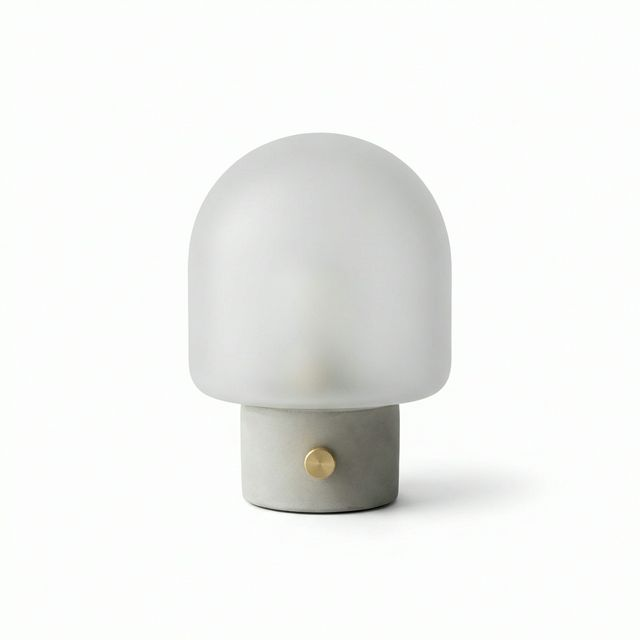
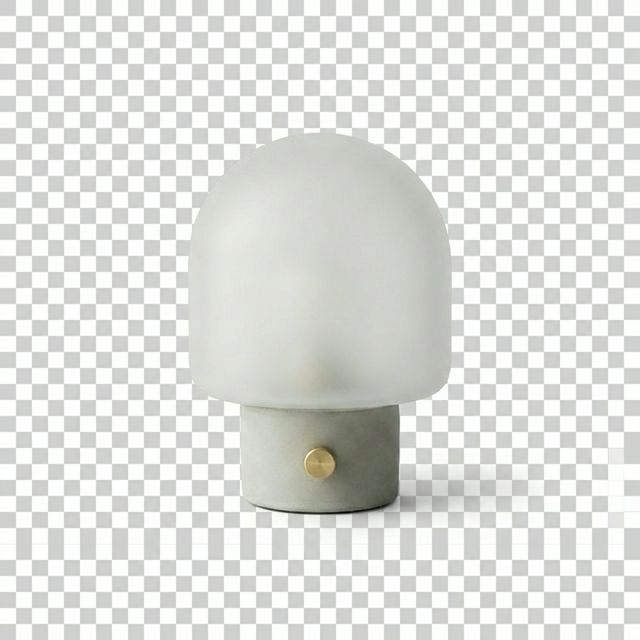
Implement transparent PNG swirl effect: cutout images + new SVG layering

diff --git a/swiss-minimalist.js b/swiss-minimalist.js
@@ -100,4 +100,104 @@ document.addEventListener('DOMContentLoaded', () => {
     document.body.style.opacity = '1';
   });
 
+  // ------ Swirly Pen Stroke Hover Effect ------
+  (function initSwirlHover() {
+    const NS = 'http://www.w3.org/2000/svg';
+    const items = document.querySelectorAll('.product-item');
+
+    function r(a, b) { return a + Math.random() * (b - a); }
+
+    // Generate a random swirly, organic pen-stroke path
+    function makeSwirlPath(w, h) {
+      const cx = w / 2, cy = h / 2;
+
+      // Generate 6-9 points spread around the card
+      // (the transparent image will naturally mask the center)
+      const pts = [];
+      const n = 6 + Math.floor(Math.random() * 4);
+      for (let i = 0; i < n; i++) {
+        // Distribute around card — bias toward edges but allow mid-range
+        const angle = (i / n) * Math.PI * 2 + r(-0.4, 0.4);
+        const radius = r(0.35, 0.55) * Math.min(w, h);
+        const x = cx + Math.cos(angle) * radius * (w / Math.min(w, h));
+        const y = cy + Math.sin(angle) * radius * (h / Math.min(w, h));
+        pts.push({
+          x: Math.max(-w * 0.05, Math.min(w * 1.05, x)),
+          y: Math.max(-h * 0.05, Math.min(h * 1.05, y)),
+          a: angle
+        });
+      }
+
+      // Sort by angle for cohesive flow
+      pts.sort((a, b) => a.a - b.a);
+
+      // Build cubic bezier path
+      let d = `M${pts[0].x.toFixed(1)},${pts[0].y.toFixed(1)}`;
+      for (let i = 1; i < pts.length; i++) {
+        const p = pts[i - 1], q = pts[i];
+        const dx = q.x - p.x, dy = q.y - p.y;
+        const sw = r(-0.5, 0.5);
+        const c1x = p.x + dx / 3 + dy * sw;
+        const c1y = p.y + dy / 3 - dx * sw;
+        const c2x = p.x + 2 * dx / 3 - dy * sw * 0.6;
+        const c2y = p.y + 2 * dy / 3 + dx * sw * 0.6;
+        d += ` C${c1x.toFixed(1)},${c1y.toFixed(1)} ${c2x.toFixed(1)},${c2y.toFixed(1)} ${q.x.toFixed(1)},${q.y.toFixed(1)}`;
+      }
+      return d;
+    }
+
+    items.forEach(item => {
+      let svg = null;
+      const container = item.querySelector('.image-container');
+      if (!container) return;
+
+      item.addEventListener('mouseenter', () => {
+        if (svg) { svg.remove(); svg = null; }
+
+        const w = container.offsetWidth;
+        const h = container.offsetHeight;
+
+        // Create SVG — placed inside image-container, behind the <img>
+        svg = document.createElementNS(NS, 'svg');
+        svg.setAttribute('viewBox', `0 0 ${w} ${h}`);
+        svg.style.cssText = 'position:absolute;top:0;left:0;width:100%;height:100%;pointer-events:none;z-index:1;';
+
+        // Create the swirl path (no clip-path — transparent PNG masks naturally)
+        const path = document.createElementNS(NS, 'path');
+        path.setAttribute('d', makeSwirlPath(w, h));
+        path.setAttribute('fill', 'none');
+        path.setAttribute('stroke', '#000');
+        path.setAttribute('stroke-width', '2');
+        path.setAttribute('stroke-linecap', 'round');
+        path.setAttribute('stroke-linejoin', 'round');
+        svg.appendChild(path);
+
+        container.appendChild(svg);
+
+        // Animate draw-in via stroke-dashoffset
+        const len = path.getTotalLength();
+        path.style.strokeDasharray = len;
+        path.style.strokeDashoffset = len;
+        requestAnimationFrame(() => {
+          path.style.transition = 'stroke-dashoffset 0.8s cubic-bezier(0.4,0,0.2,1)';
+          path.style.strokeDashoffset = '0';
+        });
+      });
+
+      item.addEventListener('mouseleave', () => {
+        if (!svg) return;
+        const path = svg.querySelector('path');
+        if (!path) { svg.remove(); svg = null; return; }
+
+        const len = path.getTotalLength();
+        path.style.transition = 'stroke-dashoffset 0.6s cubic-bezier(0.4,0,0.2,1)';
+        path.style.strokeDashoffset = len;
+
+        const ref = svg;
+        svg = null;
+        setTimeout(() => ref.remove(), 620);
+      });
+    });
+  })();
+
 });

diff --git a/swiss-minimalist.css b/swiss-minimalist.css
@@ -225,6 +225,8 @@ ol {
   aspect-ratio: 1 / 1;
   background-color: #FFFFFF;
   overflow: hidden;
+  position: relative;
+  z-index: 2;
 }
 
 .product-item img {
@@ -233,6 +235,8 @@ ol {
   object-fit: cover;
   display: block;
   transition: transform 0.6s cubic-bezier(0.25, 0.46, 0.45, 0.94);
+  position: relative;
+  z-index: 2;
 }
 
 .product-item:hover img {
@@ -254,6 +258,7 @@ ol {
   font-weight: 500;
   opacity: 0;
   transition: opacity 0.2s ease;
+  z-index: 4;
 }
 
 .product-item:hover .product-info {
